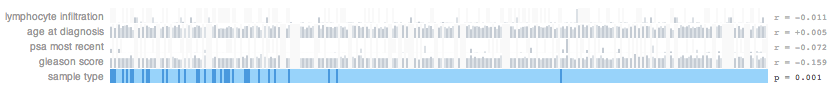
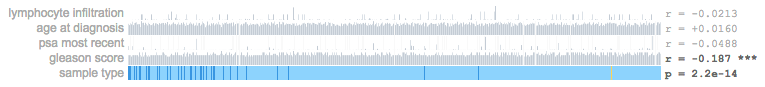
Updated the about page + images.

diff --git a/about.html b/about.html
@@ -74,11 +74,15 @@
                     <h2>Creating the plot</h2>
                     <p>
                         All that's left to do after selecting a gene and cancer type is clicking the <span class="blue">plot</span> button and the data you selected will be visualised.
+                        Samples are arranged from left to right, while the different data types (clinical, expression and methylation) are arranged from the top to the bottom of the plot.
                     </p>
                     <p>
                         Hovering over one of the methylation line plots will bring up the ID of the corresponding probe.
                         Click on a methylation line plot to fix the probe ID on the figure.
                         Click it again to remove the probe ID (or click another methylation line plot).
+                        You can also highlight the promoter probes by clicking the button right above the legend.
+                    </p>
+                    <p>
                         If you'd like to download the figure you just created, simply click the <span class="blue">png</span> or <span class="blue">svg</span> button in the upper right corner (depending on which image format you want).
                     </p>
                 </section>
@@ -94,7 +98,6 @@
                     <p>
                         Next up is the legend of the plot, which adapts to the cancer type you selected, and below the legend is the actual plot.
                         From top to bottom you will see the clinical data, the expression values and the methylation data.
-                        The samples are listed horizontally, while the different types of data are arranged vertically.
                         Let's take a detailed look at each part.
                     </p>
                     <h3>expression data</h3>
@@ -126,7 +129,7 @@
                     <p>
                         The values on the far right represent the Pearson product&#45;moment correlation coefficient between the methylation values for a probe and the expression values.
                         For GSTP1 you can see that there are quite a few probes with a strong negative correlation between methylation and expression, indicating that GSTP1 expression might be controlled through DNA methylation (which has already been described, see <a href="http://www.nature.com/onc/journal/v18/n6/full/1202415a.html" target="_blank">Millar <em>et al.</em>, 1999</a>).
-                        To make it easier to see which probes have a higher correlation coefficient, these values are marked with a darker text color.
+                        As the plot's legend explains, the asterisks give you an indication of the significance of the correlations.
                     </p>
                     <h3>clinical data</h3>
                     <figure>
@@ -151,7 +154,8 @@
                     <p>
                         As described earlier, the samples are sorted based on their expression value by default.
                         By clicking on the name of the annotation parameter you're interested in, you can rearrange the samples by the annotation you just selected.
-                        Besides the rearrangement of the samples, all correlation and p values will be recalculated.
+                        So if you would for example like to compare age to the expression and methylation of a certain gene or to the other clinical parameters, you just have to click on "age at diagnosis" and the samples will be reordered.
+                    </p>
                 </section>
                 <section>
                     <a class="startButton" href="/">Let's get started!</a>
